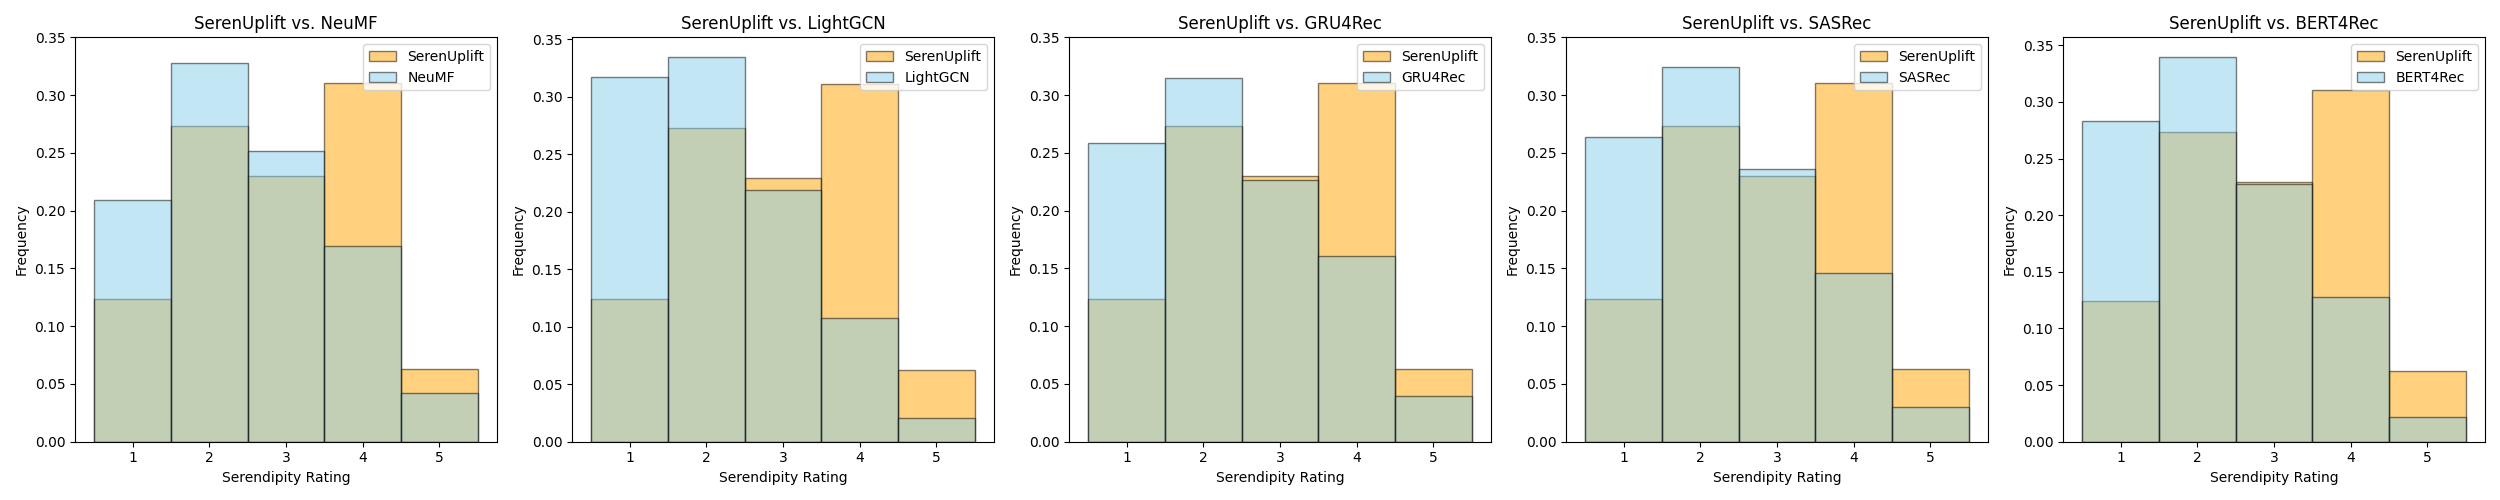
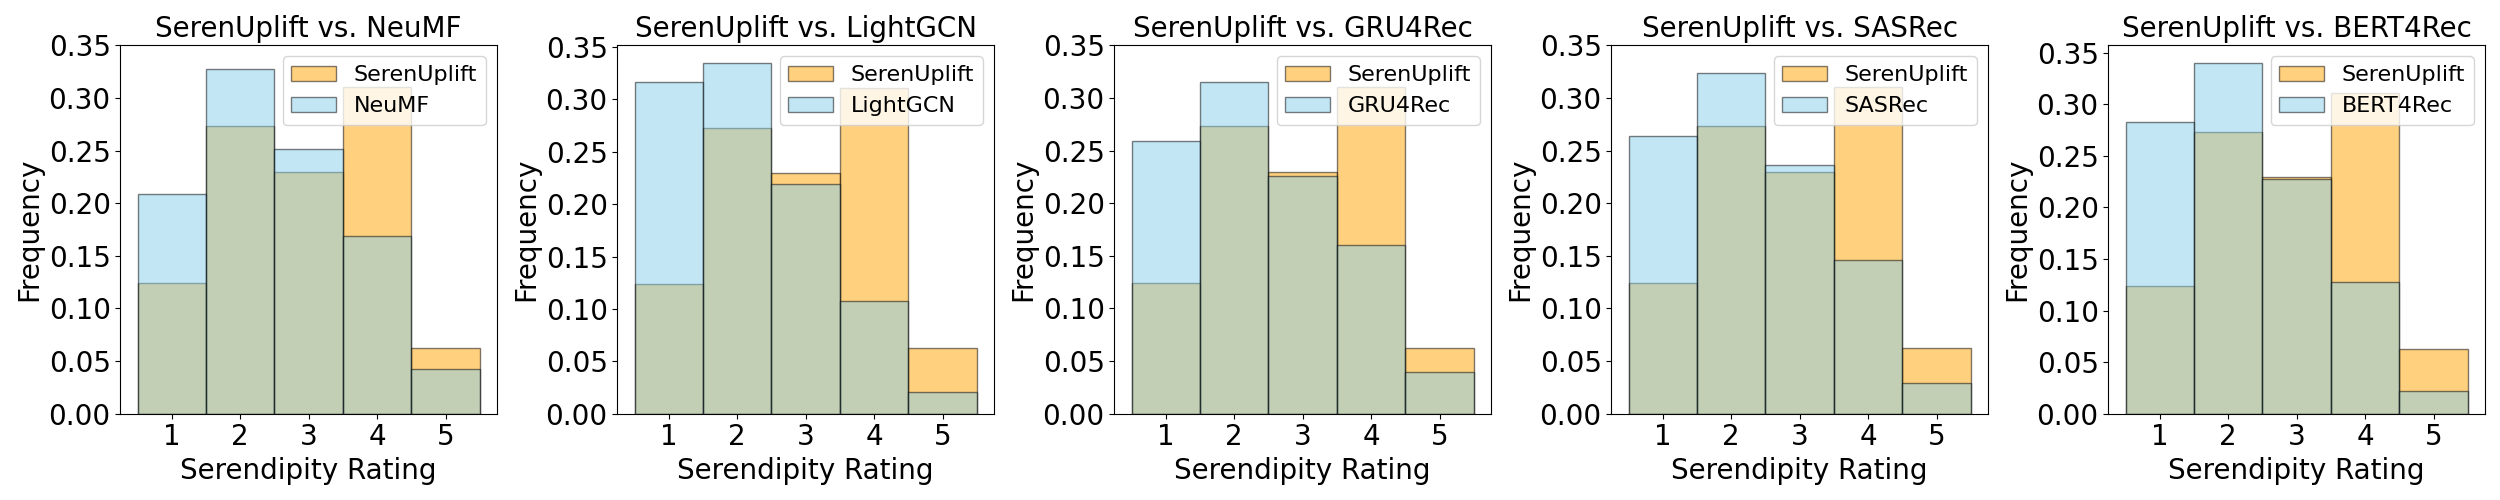
chore: Bigger text for image

Changed region(s): [[0.0, 0.03, 0.9984, 0.99]]

diff --git a/scripts/main_plots.py b/scripts/main_plots.py
@@ -35,12 +35,13 @@ def main(evaluation_dir):
         ax.hist(seren_uplift_scores, bins=bins, alpha=0.5, label='SerenUplift', density=True, edgecolor='black', color='orange')
         ax.hist(baseline_scores, bins=bins, alpha=0.5, label=baseline, density=True, edgecolor='black', color='skyblue')
 
-        ax.set_title(f'SerenUplift vs. {baseline}')
-        ax.set_xlabel('Serendipity Rating')
-        ax.set_ylabel('Frequency')
+        ax.set_title(f'SerenUplift vs. {baseline}', fontsize=20)
+        ax.set_xlabel('Serendipity Rating', fontsize=20)
+        ax.set_ylabel('Frequency', fontsize=20)
         ax.set_xticks(range(1, 6))
         ax.set_yticks(np.arange(0, 0.4, 0.05))
-        ax.legend()
+        ax.tick_params(axis='both', labelsize=20)
+        ax.legend(fontsize=16)
 
     plt.tight_layout()
     plt.savefig('results/assets/score_distributions.png')
